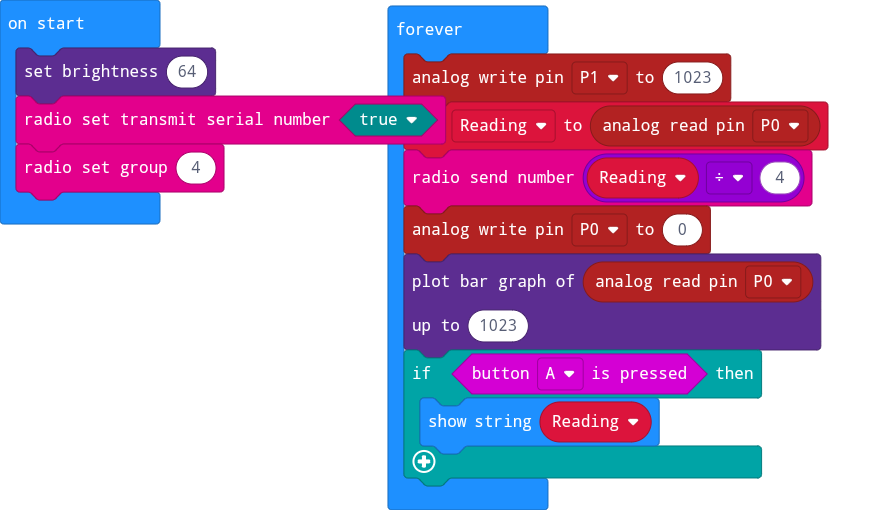
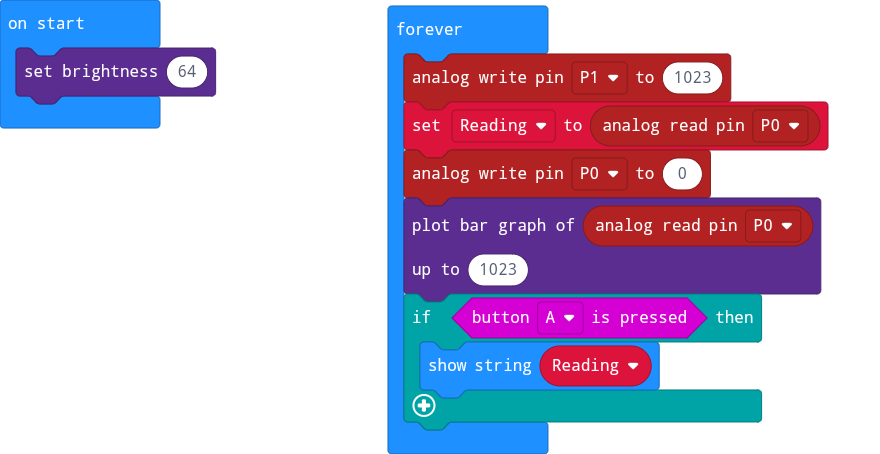
Update main.blocks, main.ts

Changed region(s): [[0.0, 0.0, 0.9511, 0.9559], [0.0, 0.0308, 0.092, 0.0617]]

diff --git a/main.ts b/main.ts
@@ -1,11 +1,8 @@
 let Reading = 0
 led.setBrightness(64)
-radio.setTransmitSerialNumber(true)
-radio.setGroup(4)
 basic.forever(function () {
     pins.analogWritePin(AnalogPin.P1, 1023)
     Reading = pins.analogReadPin(AnalogPin.P0)
-    radio.sendNumber(Reading / 4)
     pins.analogWritePin(AnalogPin.P0, 0)
     led.plotBarGraph(
     pins.analogReadPin(AnalogPin.P0),
